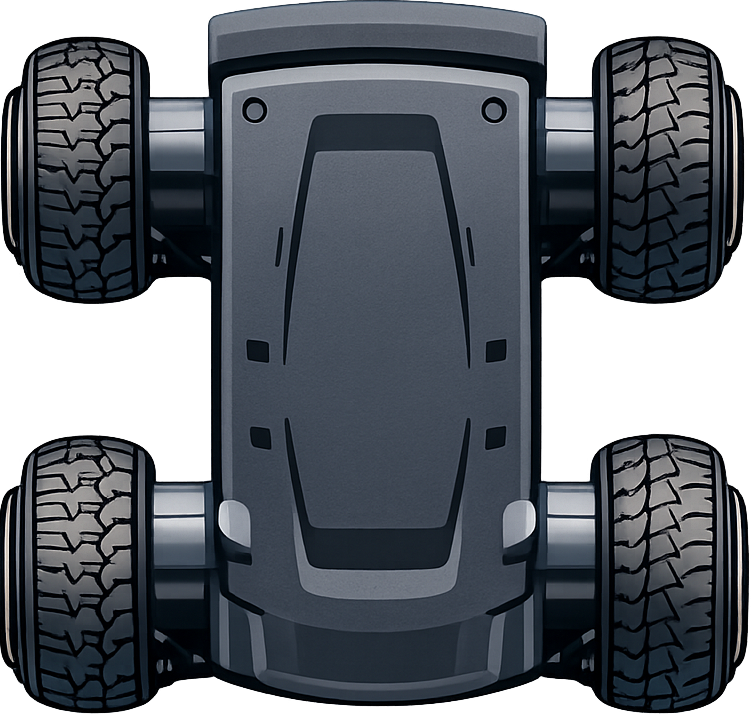
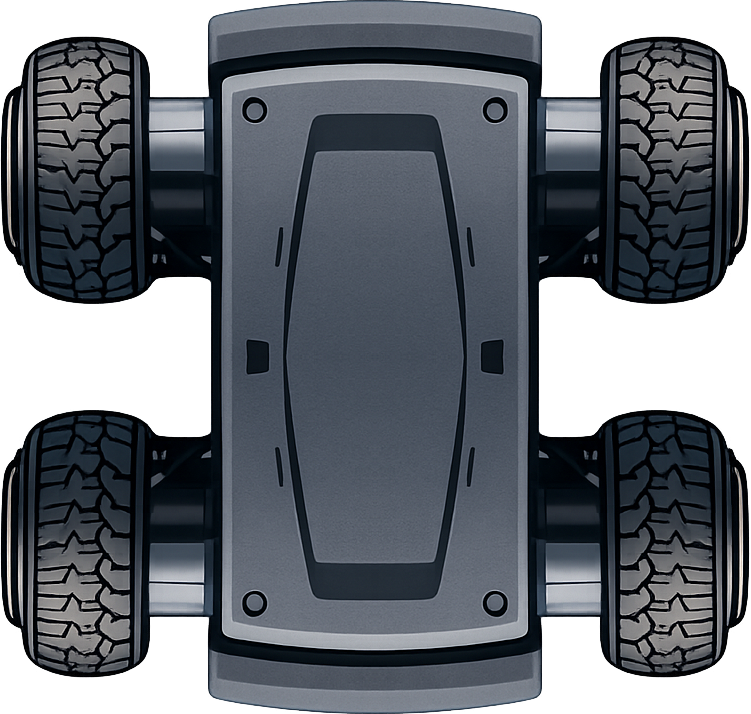
**

diff --git a/200_html/wcs/100_vehicle_status.html b/200_html/wcs/100_vehicle_status.html
@@ -67,6 +67,12 @@
                             Vehicle Test
                         </a>
                     </li>
+                    <li>
+                        <a href="200_wcs_setting.html" class="nav-link px-2 text-white">
+                            <i class="bi bi-sliders me-2"></i>
+                            WCS Setting
+                        </a>
+                    </li>
                 </ul>
 
                 <!-- MQTT 상태 표시 영역 -->

diff --git a/200_html/wcs/110_vehicle_setting.html b/200_html/wcs/110_vehicle_setting.html
@@ -70,6 +70,12 @@
                             Vehicle Test
                         </a>
                     </li>
+                    <li>
+                        <a href="200_wcs_setting.html" class="nav-link px-2 text-white">
+                            <i class="bi bi-sliders me-2"></i>
+                            WCS Setting
+                        </a>
+                    </li>
                 </ul>
 
                 <!-- MQTT 상태 표시 영역 -->

diff --git a/200_html/wcs/120_vehicle_test.html b/200_html/wcs/120_vehicle_test.html
@@ -70,6 +70,12 @@
                             Vehicle Test
                         </a>
                     </li>
+                    <li>
+                        <a href="200_wcs_setting.html" class="nav-link px-2 text-white">
+                            <i class="bi bi-sliders me-2"></i>
+                            WCS Setting
+                        </a>
+                    </li>
                 </ul>
 
                 <!-- MQTT 상태 표시 영역 -->